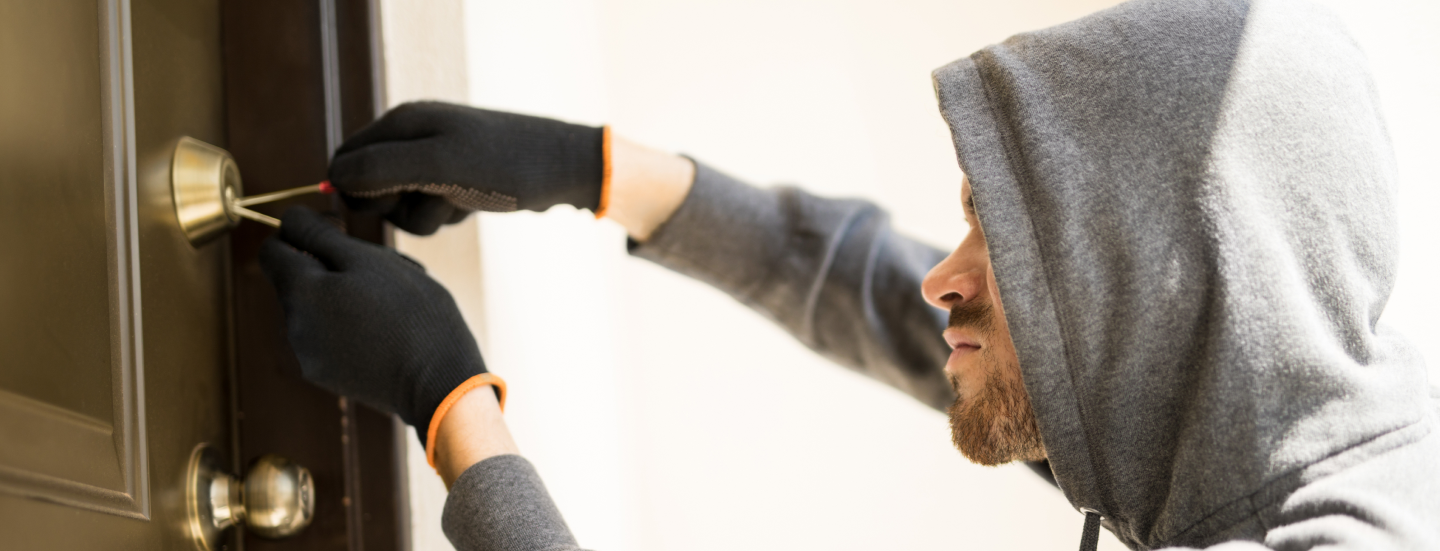
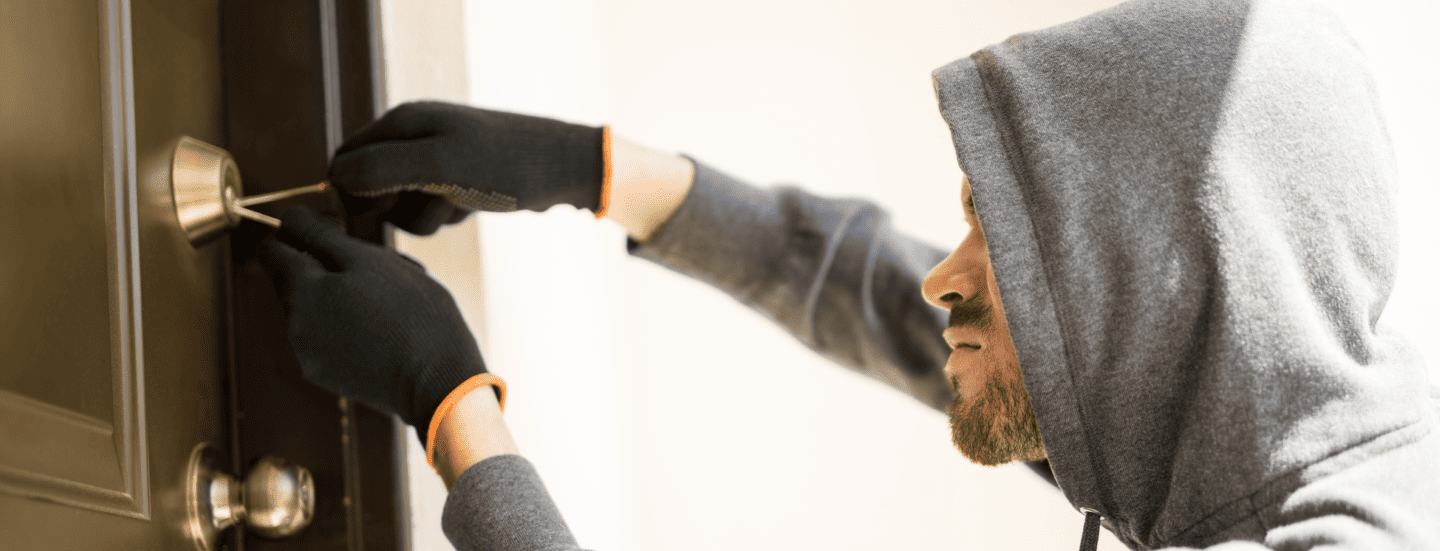
Compressed slider images, added privacy policy and claims pages, boxed services description sections

diff --git a/src/components/privacyPolicyPage/PrivacyPolicy.tsx b/src/components/privacyPolicyPage/PrivacyPolicy.tsx
@@ -1,0 +1,183 @@
+import heroImg from "../../assets/privacy_policy/hero.png"
+
+
+export default function PrivacyPolicy() {    
+    return (
+        <>
+            {/* <!-- Hero section --> */}
+            <div className="w-full relative">
+                <img src={heroImg} alt="Hero img" className="w-full min-h-[400px] max-h-[420px] object-cover object-left-top" />    
+            </div>
+            <section className="bg-[#1F834008] text-[#00000080] font-medium py-12 md:py-20 lg:py-28 px-7 md:px-20 lg:px-[120px] xl:px-[160px] text-base lg:text-lg" >
+                <p>
+                    NPF Insurance Company Limited is a general business insurance company,
+                    licensed by the National Insurance Commission (NAICOM). As a privately-owned company,
+                    we are dedicated to contributing to Nigeria's GDP by providing comprehensive insurance and
+                    risk management solutions. Our experienced leadership team, headed by the Chairman, Mr. Olufemi
+                    Adenaike and MD/CEO, Mr. Temitayo Oke, brings a combined experience of over 200 years in Human
+                    Resources, Risk, and Asset management across various sectors of the Nigerian economy. We are
+                    committed to providing innovative and customer-focused insurance solutions at competitive rates.
+                    Our team of experts offer exceptional services, expert risk management advice, and tailored insurance
+                    products to meet your specific needs. As a trusted insurance partner, NPF Insurance is poised to
+                    become a leader in the industry. Our emphasis is on empowering our clients through continuous
+                    improvement, risk management, capacity building and ensuring optimal value from our relationships.
+                </p>
+                <p className="mt-4" >
+                    Our Privacy Principles <br />
+                    <ul className="list-disc pl-4" >
+                        <li>We ensure that your personal data is processed in a fair, lawful, and transparent manner.</li>
+                        <li>We collect your personal data for specific, legitimate purposes and will not use it in a way that is incompatible with those purposes.</li>
+                        <li>We ensure that your personal data is adequate, relevant, and limited to what is necessary for the purposes for which it is processed.</li>
+                        <li>We take steps to maintain the accuracy of your personal data and update it as necessary.</li>
+                        <li>We retain your personal data only for as long as needed to fulfil the purposes for which it was collected.</li>
+                        <li>We implement appropriate measures to safeguard the security of your personal data.</li>
+                        <li>Your personal data will be processed in accordance with your rights.</li>
+                        <li>We will only transfer your personal data outside the European Economic Area (EEA) to another country or international organization when the necessary measures are in place to protect it. This may include contractual obligations to ensure adequate protection standards.</li>
+                        <li>NPF Insurance  Company Limited will not sell your personal data, nor will we allow any service providers to sell customer data.</li>
+                    </ul>
+                </p>
+
+                <h3 className="font-bold text-[#000000] mt-6" >How We Collect Your Personal Data</h3>
+                <p className="mt-4" >
+                    We collect your personal data directly from you in the following ways:<br />
+                    <ul className="list-disc pl-4" >
+                        <li>When you submit enquiry forms, registration forms, claim forms, feedback forms, or participate in forums.</li>
+                        <li>When you purchase any of our products or services.</li>
+                        <li>When you fill out surveys or vote in polls on our website.</li>
+                        <li>Through quotes and application forms.</li>
+                        <li>Through cookies, as outlined in our Cookies Policy.</li>
+                        <li>During telephone calls with you, which may be recorded.</li>
+                        <li>When you provide your details to us either online or offline.</li>
+                        <li>Through live chat, chatbots, and profiling tools.</li>
+                        <li>Through web analytics tags.</li>
+                    </ul>
+                </p>
+                <p className="mt-4" >
+                    Additionally, we collect your personal data from various other sources, including:<br />
+                    <ul className="list-disc pl-4" >
+                        <li>Directly from an individual or employer who holds a policy with us, such as when you're a named driver on your partner’s motor insurance policy.</li>
+                        <li>Directly from an employer who funds a health insurance policy we administer, where you are a beneficiary.</li>
+                        <li>From social media platforms when fraud is suspected.</li>
+                        <li>From other third parties such as:</li>
+                            <ul className="list-disc pl-8" >
+                                <li>Your family members, in cases where you may be incapacitated or unable to provide information relevant to your policy.</li>
+                                <li>Contractors, consultants, and business partners who sell our products and services through their platforms and channels.</li>
+                                <li>Medical professionals and hospitals.</li>
+                                <li>Aggregators (e.g., price comparison websites).</li>
+                                <li>Third parties who assist in verifying the eligibility of claims for payment.</li>
+                                <li>Companies that provide consumer classification data, such as market segmentation data for marketing purposes.</li>
+                                <li>Third parties that provide information to assist NPF Insurance Company Limited in making risk selection, pricing, and underwriting decisions.</li>
+                            </ul>
+                    </ul>
+                </p>
+
+                <p className="mt-6" >
+                    What Personal Data Do We Collect?<br />
+                    The personal data we collect will vary depending on our relationship with you. If there are other individuals named on your policy, we may request similar information about them if it’s relevant to your insurance.
+                    <br />
+                    When NPF Insurance Company Limited is the data controller of your personal data, we may collect the following:
+                    <br />
+                    <ul className="list-disc pl-4" >
+                        <li>Contact Details: Name, email address, home/office address, and telephone number.</li>
+                        <li>Policy Information: Details of any other persons included on your policy, their relationship to you as the policyholder.</li>
+                        <li>Identification Information: Date of birth, national identity number, bank verification number, and other identification numbers (e.g., passport, driver’s license).</li>
+                        <li>Financial Information: Bank details.</li>
+                        <li>Insurance Information: Details relevant to your insurance policy, such as information about your vehicle, property, previous policies or claims, recent damages, travel plans, destinations, activities, and travel dates.</li>
+                        <li>Claims Information: Information relevant to your claim or involvement in the matter that led to a claim.</li>
+                        <li>Business Information: Information about the nature of your business and commercial assets.</li>
+                        <li>Cookie Data: Information collected through our use of cookies (further details in our Cookies Policy).</li>
+                        <li>Marketing Preferences: Your preferences regarding marketing communications.</li>
+                    </ul>
+                    
+                    Sensitive Personal Data:<br />
+                    <ul className="list-disc pl-4" >
+                        <li>Information about your current or past physical or mental health. </li>
+                        <li>Details about your sexual life or sexual orientation, such as marital status. </li>
+                    </ul>
+                </p>
+
+                <p className="mt-6" >
+                    Privacy of Children<br />
+                    We respect the privacy of children. We do not knowingly collect names, email addresses or any other Personal Data from children except where this is required to register them as beneficiaries in relation to a policy or other products. We do not knowingly market to children nor do we allow children under 18 to purchase any of our products or services.
+                </p>
+
+                <p className="mt-6" >
+                    How We Use Your Personal Data<br />
+                    Under applicable data protection laws, we must have a valid reason to use and process your personal data. This valid reason is known as a legal ground. Below are the main reasons why we process your personal data and the circumstances in which we do so:
+
+                    <ul className="list-decimal pl-4" >
+                        <li>To Provide Insurance Services: We process your personal data to offer you our insurance policies and services. This includes assessing your application, setting you up as a policyholder or account holder, administering and managing your insurance policy, providing quotes, handling claims, and communicating with you. If you do not provide the necessary information, we may not be able to offer you a policy or process your claim.</li>
+                        <li>Cloud Storage: We may use cloud storage solutions, both within and outside Nigeria, to improve efficiency and performance with the help of up-to-date technology.</li>
+                        <li>Legal and Regulatory Obligations: We may process your personal data to comply with legal or regulatory obligations. For example, regulatory bodies such as the National Insurance Commission (NAICOM), the Securities and Exchange Commission (SEC), the National Health Insurance Scheme (NHIS), and the National Information Technology Development Agency (NITDA) may require us to maintain records of our dealings with you.</li>
+                        
+                        <li>Compliance with Laws and Regulations: We may use your personal data to comply with local or foreign laws, regulations, codes, directives, court orders, or agreements with authorities, regulators, or enforcement agencies. This includes compliance with financial transaction legislation, government sanctions, or reporting requirements under anti-money laundering laws (e.g., NFIU, EFCC).</li>
+                        <li>Legal Rights: We may process your personal data to establish, exercise, or defend our legal rights, such as in the case of legal claims or when pursuing legal action ourselves.</li>                        
+                        <li>Public Interest: We may use your personal data for reasons of substantial public interest, such as investigating fraudulent claims and conducting fraud, credit, and anti-money laundering checks or identity verifications.</li>
+                        <li>Communication and Complaint Resolution: We may process your personal data to communicate with you and resolve complaints or issues related to our services.</li>
+                        <li>Sensitive Personal Data for Insurance Purposes: We may process sensitive personal data, such as health data, when it is necessary for the provision of insurance coverage, particularly when such data is essential to the insurance policy.</li>
+                        <li>Consent: We may process your personal data based on your consent, particularly for sensitive personal data (such as health information) or for marketing purposes. We will make it clear when we ask for your consent and explain why it is necessary. Without your consent in certain circumstances, we may be unable to provide coverage or handle claims. If you provide sensitive personal data about a third party, we may ask for proof that the third party has given consent for you to act on their behalf.</li>
+                        <li>Legitimate Business Needs: We may process your personal data for legitimate business purposes, such as maintaining business records, improving our products and services, and ensuring that these business needs do not interfere with your rights or cause harm.</li>
+                        <li>Vital Interests: In cases where it is necessary to protect your vital interests (such as in life-or-death situations), we may process your sensitive personal data, including health data.</li>
+                    </ul>
+                </p>
+
+                <p className="mt-6" >
+                    Who do we share your Personal Data with?<br />
+                    We might share your Personal Data with two types of organisation – companies inside the NPF Insurance Committee, and other third parties outside the Committee. For further details of disclosures, please see below. We will not share any of your Personal Data other than for the purposes described in this Privacy Policy. If we share anything outside the Group, it will be kept strictly confidential and will only be used for reasons that we have described.
+                </p>
+
+                <p className="mt-6" >
+                    Disclosures within Our Group<br />
+                    To deliver our services effectively, your personal information may be shared with other companies within the NPF Insurance Committee. This sharing may occur for general business administration, to enhance efficiency and accuracy, or for the prevention and detection of fraud.
+                </p>
+
+                <p className="mt-6" >
+                    Disclosures to Third Parties<br />
+                    We may disclose your personal data to the third parties listed below for the purposes outlined in this Privacy Policy. This includes:
+                    <br />
+
+                    <ul className="list-disc pl-4" >
+                        <li>Your Relatives or Representatives: If you are incapacitated or unable to act on your behalf, your relatives, guardians, or other individuals or organizations associated with you, such as your insurance broker or lawyer.</li>
+                        <li>Alternative Contacts: If you have named an alternative contact (e.g., a relative), this person will be able to discuss all aspects of your policy (including claims and cancellations) and make changes on your behalf.</li>
+                        <li>Garages or Panel Beaters: NPF Insurance recommended or your designated garage/panel beater for repairs or services related to your policy.</li>
+                        
+                        <li>Insurance Partners: Brokers, other insurers, re-insurers, or companies that act as distributors of insurance products.</li>
+                        <li>Policy Administration Assistants: Third parties who help administer insurance policies, such as other insurers involved in claims.</li>
+                        <li>Risk and Pricing Decisions: Sharing of personal data for risk selection, pricing, and underwriting purposes with third parties.</li>
+                        <li>Fraud Detection Agencies: Agencies and other third parties that maintain fraud detection registers.</li>
+                        <li>Law Enforcement: Police or other law enforcement agencies when necessary for crime prevention or detection.</li>
+                        <li>Insurance Industry Database: Sharing with the Nigerian Insurance Industry Database.</li>
+                        <li>Third-Party Service Providers: IT suppliers, actuaries, auditors, lawyers, marketing agencies, research firms, document management providers, and tax advisers.</li>
+                        <li>Goods and Services Providers: Other suppliers related to your insurance or claims handling.</li>
+                        <li>Customer Satisfaction Providers: Companies that administer customer satisfaction surveys.</li>
+                        <li>Financial Organizations and Advisers: Banks and financial advisors.</li>
+                        <li>Overseas Assistance Providers: Companies offering assistance services outside Nigeria.</li>
+                        <li>Loss Adjusters and Emergency Assistance Companies: Service providers who assist with claims and emergency services.</li>
+                        <li>Healthcare Practitioners: Your healthcare providers for medical-related insurance matters.</li>
+                        <li>Other Insurers: In cases where another insurance company is involved, for instance, in joint claims handling.</li>
+                        <li>Third Parties in Business Transfers: Selected third parties involved in the sale, transfer, or disposal of NPF Insurance products.</li>                                                                                                                
+                    </ul>                    
+                </p>
+                <p className="mt-3" >
+                    Any third party receiving your personal data will only use it for the specific purpose we provide it for, and they will be required to keep your information strictly confidential.
+                    <br />
+                    We may also disclose your personal data to third parties when:
+                </p>                
+                <ul className="list-disc pl-4 mt-2" >
+                    <li>Legal or Regulatory Requirements: We are required or permitted by law, such as under a court order, statutory obligation, or by regulatory bodies like the Prudential Regulatory Authority or Financial Conduct Authority.</li>
+                    <li>Crime Prevention or Public Interest: When necessary to assist in detecting or preventing criminal activity (including fraud) or where disclosure serves the public interest.</li>
+                    <li>Legal Exemptions: Where data protection laws provide exemptions for disclosure.</li>                                    
+                </ul>
+                <p>
+                    Some recipients of your personal data may be located outside of Nigeria. In cases where we transfer personal data to countries that do not have the same level of protection as Nigeria, NPF Insurance Company Limited will ensure appropriate safeguards are in place to protect your data. These safeguards may include placing contractual obligations on the receiving party to maintain adequate data protection standards. Additionally, transfers may occur when necessary for the performance of your contract, such as contacting you for travel insurance while you are outside Nigeria.
+                </p>
+            </section>
+        </>
+    )
+}
+
+
+
+
+
+

diff --git a/src/components/claimsPage/Claims.tsx b/src/components/claimsPage/Claims.tsx
@@ -1,0 +1,95 @@
+export default function Claims() {    
+    return (
+        <>
+            {/* Hero section */}
+            <div className="w-full relative min-h-[400px] max-h-[420px] bg-[#1F8340] flex items-center justify-center">                
+                <div className="text-center p-5 md:px-8 lg:py-10 text-[#FFFFFF]">
+                    <div className="text-3xl sm:text-5xl font-bold">
+                        <h1 className='text-2xl md:text-3xl lg:text-5xl xl:text-5xl text-[#000000] inline-block px-4 py-2'>
+                            Claims
+                        </h1>
+                    </div>
+                    <div className="my-1 text-lg sm:text-xl py-3">
+                        <p>Home -&gt; Claims</p>
+                    </div>
+                </div>
+            </div>
+
+            {/* Content Section */}
+            <section className="bg-white text-[#000000] py-12 md:py-20 lg:py-28 px-7 md:px-20 lg:px-[120px] xl:px-[160px] text-base lg:text-lg">
+                <p className="mb-8">
+                    In line with our commitment to providing a smooth and timely resolution of your claims, please find below our target timelines for settlements. We are dedicated to making the process as stress-free and seamless as possible. If your expectations are not met, kindly reach out to us at <a href="mailto:contact@npfinsurance.com" className="text-[#1F8340] font-semibold">contact@npfinsurance.com</a>.
+                </p>
+
+                {/* Life Policies */}
+                <h2 className="text-2xl md:text-3xl lg:text-4xl font-bold text-black mb-1">Life Policies</h2>
+                <table className="mb-20 w-full border-collapse text-sm lg:text-base"/*  style={{ borderCollapse: 'separate', borderSpacing:'0em 10px'} */ >
+                    <tbody>
+                        <tr className="border-b border-t-4 border-[#000000]">
+                            <td className = "text-center w-1/3 p-3">Maturity</td>
+                            <td className = "text-center w-1/3 p-3">Savings / Endowment Policies</td>
+                            <td className = "text-center w-1/3 p-3">Acknowledgement within 24 hours of receipt of the maturity notice</td>
+                        </tr>
+                        <tr className="border-b border-[#000000]">
+                            <td className="text-center w-1/3 p-3" ></td>
+                            <td className="text-center w-1/3 p-3" >Benefit Payment (Savings)</td>
+                            <td className="text-center w-1/3 p-3" >Payment on maturity date</td>
+                        </tr>
+                        <tr className="border-b border-[#000000]">
+                            <td></td>
+                            <td className="text-center w-1/3 p-3" >Benefit Payment (Endowment)</td>
+                            <td className="text-center w-1/3 p-3" >Payment within 3 working days after documentation for all amount</td>
+                        </tr>
+                        <tr className="border-b border-[#000000]">
+                            <td className="text-center w-1/3 p-3" >Surrender</td>
+                            <td></td>
+                            <td className="text-center w-1/3 p-3" >Acknowledgement within 24 hours of receipt of surrender request</td>
+                        </tr>
+                        <tr className="border-b border-[#000000]">
+                            <td></td>
+                            <td className="text-center w-1/3 p-3" >Benefit Payment</td>
+                            <td className="text-center w-1/3 p-3" >Within 3 working days for all amount</td>
+                        </tr>
+                        <tr className="border-b border-[#000000]">
+                            <td className="text-center w-1/3 p-3" >Death Claims</td>
+                            <td></td>
+                            <td className="text-center w-1/3 p-3" >Acknowledgement within 24 hours of receipt of claim notification</td>                            
+                        </tr>
+                         <tr className="border-b border-[#000000]">
+                            <td></td>
+                            <td className="text-center w-1/3 p-3" >Payment of Claim</td>
+                            <td className="text-center w-1/3 p-3" >Payment within 3 working days after documentation for all amount</td>
+                        </tr>
+                    </tbody>
+                </table>
+
+                {/* Non-Life Policies */}
+                <div className="border-b-4 border-b-[#000000] mb-6">
+                    <h2 className="text-2xl md:text-3xl lg:text-4xl font-bold text-black mb-1">Non-Life Policies</h2>
+                </div>
+                <table className="w-full border-collapse text-sm lg:text-base"/*  style={{ borderCollapse: 'separate', borderSpacing:'0em 10px'} */ >
+                    <tbody>
+                        <tr className="border-b border-[#000000]">                    
+                            <td></td>
+                            <td className = "text-center w-1/2 p-3 text-xl md:text-2xl lg:text-3xl font-semibold">Target Timeline</td>
+                        </tr>
+                        <tr className="border-b border-[#000000]">
+                            <td className="text-center w-1/2 p-3" >Claim Notification</td>
+                            <td className="text-center w-1/2 p-3" >Acknowledge within 24 hours of receipt of notification.</td>
+                        </tr>
+                        <tr className="border-b border-[#000000]">
+                            <td className="text-center w-1/2 p-3" >Motor Claims Payment</td>
+                            <td className="text-center w-1/2 p-3" >Within 48 hours on receipt of executed discharge voucher</td>
+                        </tr>
+                        <tr className="border-b border-[#000000]">
+                            <td className="text-center w-1/2 p-3" >Non-Motor Claims Payment</td>
+                            <td className="text-center w-1/2 p-3" >Within 3 working days on receipt of executed discharge voucher</td>
+                        </tr>
+                    </tbody>
+                </table>
+
+               
+            </section>
+        </>
+    );
+}

diff --git a/src/components/services/FireAndSpecialsServiceLanding/FireAndSpecialsServiceLanding.tsx b/src/components/services/FireAndSpecialsServiceLanding/FireAndSpecialsServiceLanding.tsx
@@ -32,7 +32,7 @@ export default function FireAndSpecialsServiceLanding() {
                     <h4 className="font-bold text-2xl md:text-3xl lg:text-4xl mb-5" >
                         FIRE & SPECIAL PERILS
                     </h4>
-                    <p className="font-medium text-[#00000080] text-sm leading-7 md:text-base md:leading-8 text-justify" >
+                    <p className="font-medium text-[#000000] text-sm leading-7 md:text-base md:leading-8 text-justify" >
                         The Insurance Act 2003 makes it mandatory for every public building to be insured with a registered insurer against the risk of fire and special perils. Fire and special Perils Insurance covers the devastating effect fire can have on assets such as building and contents in the premises. This policy covers fire, explosions, bush fire, flood, impact, riot, strike, malicious damage, earthquake, burst pipes and all others included or added to the policy.
                     </p>
                     <button className="mt-7 md:mt-14 relative px-4 py-1.5 text-white text-sm font-bold rounded-full bg-[#093618] border-[5px] border-white shadow-lg">
@@ -46,7 +46,7 @@ export default function FireAndSpecialsServiceLanding() {
                     <h4 className="font-semibold mb-6" >
                         SCHEDULE OF PROPERTY COVERED
                     </h4>                        
-                    <div className={`font-medium text-[#DCDFDD] text-sm md:text-base text-justify`} >
+                    <div className={`font-medium text-white text-sm md:text-base text-justify`} >
                         <p>
                             On Building of Standard Construction including outbuilding, contents, machinery & stock, situate anywhere in Nigeria owned or held by the insured in trust or commission. Please advise value per building/location, value of contents, machinery and stock of items to be covered , to enable us indicate our rate.
                         </p>                        

diff --git a/src/App.tsx b/src/App.tsx
@@ -19,6 +19,8 @@ import Machinery_Insurance_Service_Landing from "./pages/services/Machinery_Insu
 import Claims_Management_Service_Landing from "./pages/services/Claims_Management_Service_Landing/Claims_Management_Service_Landing ";
 import Group_Personal_Insurance_Service_Landing from "./pages/services/Group_Personal_Insurance_Service_Landing/Group_Personal_Insurance_Service_Landing";
 import Occupiers_Liability_Service_Landing from "./pages/services/Occupiers_Liability_Service_Landing/Occupiers_Liability_Service_Landing";
+import Privacy_policy from "./pages/privacy_policy/privacy_policy";
+import Claims_page from "./pages/claims/claims_page";
 
 
 function App() {
@@ -59,7 +61,8 @@ function App() {
               <Route path="/services/claims-management" element={<Claims_Management_Service_Landing />} />
               <Route path="/services/group-personal-insurance" element={<Group_Personal_Insurance_Service_Landing />} />
               <Route path="/services/occupiers-liability-insurance" element={<Occupiers_Liability_Service_Landing />} />
-          
+              <Route path="/privacy-policy" element={<Privacy_policy />} />
+              <Route path="/claims" element={<Claims_page />} />
             </Routes>
           </>
       </main>

diff --git a/src/components/services/GroupPersonalInsuranceServiceLanding /GroupPersonalInsuranceServiceLanding .tsx b/src/components/services/GroupPersonalInsuranceServiceLanding /GroupPersonalInsuranceServiceLanding .tsx
@@ -8,7 +8,7 @@ export default function GroupPersonalInsuranceServiceLanding() {
                     src={heroImg} alt="Hero img" className="w-full min-h-[400px] max-h-[420px] object-cover object-top" />     */}
                 <div className=" text-left sm:text-left bg-opacity-85 p-5 md:px-8 lg:py-10 text-[#FFFFFF]">
                     <div className="text-3xl sm:text-5xl font-bold">
-                        <h1 className='text-2xl md:text-3xl lg:text-5xl xl:text-5xl'  >Your <span className="text-[#06195F]">Safety Net</span> for</h1>
+                        <h1 className='text-2xl md:text-3xl lg:text-5xl xl:text-5xl'  >Your <span className="text-[#EFEB05]">Safety Net</span> for</h1>
                         <h1 className='text-2xl md:text-3xl lg:text-5xl xl:text-5xl' >Life's Uncertainties</h1>
                     </div>
                     <div className="my-1 text-lg sm:text-xl py-3">

diff --git a/src/components/services/PublicLiabilityServiceLanding/PublicLiabilityServiceLanding.tsx b/src/components/services/PublicLiabilityServiceLanding/PublicLiabilityServiceLanding.tsx
@@ -46,7 +46,7 @@ export default function PublicLiabilityServiceLanding() {
                         <span className="absolute -right-1.5 top-0 h-full w-1 bg-[#1F834008] rounded-full"></span>
                     </button>
                 </div>
-                <div className="rounded-xl md:rounded-2xl p-5 lg:p-10 w-full h-fit " > 
+                <div className="rounded-xl md:rounded-2xl p-5 lg:p-10 w-full h-fit bg-white shadow-lg " > 
                     <h4 className="font-semibold mb-6 text-[#000000] pl-4" >
                         Generally, the basic public liability policy offers reimbursement against legal liability incurred from third parties for:
                     </h4>                        

diff --git a/src/components/services/PlantServiceLanding/PlantServiceLanding.tsx b/src/components/services/PlantServiceLanding/PlantServiceLanding.tsx
@@ -46,7 +46,7 @@ export default function PlantServiceLanding() {
                         <span className="absolute -right-1.5 top-0 h-full w-1 bg-[#1F834008] rounded-full"></span>
                     </button>
                 </div>
-                <div className="rounded-xl md:rounded-2xl p-5 lg:p-10 flex-1 w-full h-fit " > 
+                <div className="rounded-xl md:rounded-2xl p-5 lg:p-10 flex-1 w-full h-fit bg-white shadow-lg " > 
                     <h4 className="font-semibold mb-6 text-[#000000] pl-4" >
                         Some of the perils excluded include loss or damage caused by: 
                     </h4>                        

diff --git a/src/components/services/MoneyServiceLanding/MoneyServiceLanding.tsx b/src/components/services/MoneyServiceLanding/MoneyServiceLanding.tsx
@@ -43,7 +43,7 @@ export default function MoneyServiceLanding() {
                         <span className="absolute -right-1.5 top-0 h-full w-1 bg-[#1F834008] rounded-full"></span>
                     </button>
                 </div>
-                <div className="rounded-xl md:rounded-2xl p-5 lg:p-10 flex-1 w-full h-fit" > 
+                <div className="rounded-xl md:rounded-2xl p-5 lg:p-10 flex-1 w-full h-fit bg-white shadow-lg" > 
                     <h4 className="font-semibold mb-6 text-[#000000] pl-5" >
                         The following type of cover can be extended under this policy. 
                     </h4>                        

diff --git a/src/components/services/ClaimsManagementServiceLanding/ClaimsManagementServiceLanding.tsx b/src/components/services/ClaimsManagementServiceLanding/ClaimsManagementServiceLanding.tsx
@@ -41,7 +41,7 @@ export default function ClaimsManagementServiceLanding() {
                     </button>
 
                 </div>
-                <div className="rounded-xl md:rounded-2xl p-5 lg:p-10 w-full h-fit" > 
+                <div className="rounded-xl md:rounded-2xl p-5 lg:p-10 w-full h-fit bg-white shadow-lg" > 
                     <h4 className="font-semibold mb-6 text-[#000000] pl-5" >
                         Meanwhile, find attached documents for your perusal and verification.
                     </h4>                        

diff --git a/src/components/services/MachineryInsuranceServiceLanding/MachineryInsuranceServiceLanding.tsx b/src/components/services/MachineryInsuranceServiceLanding/MachineryInsuranceServiceLanding.tsx
@@ -46,7 +46,7 @@ export default function MachineryInsuranceServiceLanding() {
                     </button>
 
                 </div>
-                <div className="rounded-xl md:rounded-2xl p-5 lg:p-10 w-full h-fit" > 
+                <div className="rounded-xl md:rounded-2xl p-5 lg:p-10 w-full h-fit bg-white shadow-lg" > 
                     <h4 className="font-semibold mb-6 text-[#000000] pl-5" >
                         Breakdown is the unforeseen damage resulting from: 
                     </h4>                        

diff --git a/src/pages/privacy_policy/privacy_policy.tsx b/src/pages/privacy_policy/privacy_policy.tsx
@@ -1,0 +1,11 @@
+import { Layout } from "@/components/Layout/layout";
+import PrivacyPolicy from "@/components/privacyPolicyPage/PrivacyPolicy";
+
+
+export default function Privacy_policy(){
+    return (
+        <Layout>
+            <PrivacyPolicy />
+        </Layout>
+    )
+}

diff --git a/src/pages/claims/claims_page.tsx b/src/pages/claims/claims_page.tsx
@@ -1,0 +1,10 @@
+import Claims from "@/components/claimsPage/Claims";
+import { Layout } from "@/components/Layout/layout";
+
+export default function Claims_page(){
+    return (
+        <Layout>
+            <Claims />
+        </Layout>
+    )
+}
